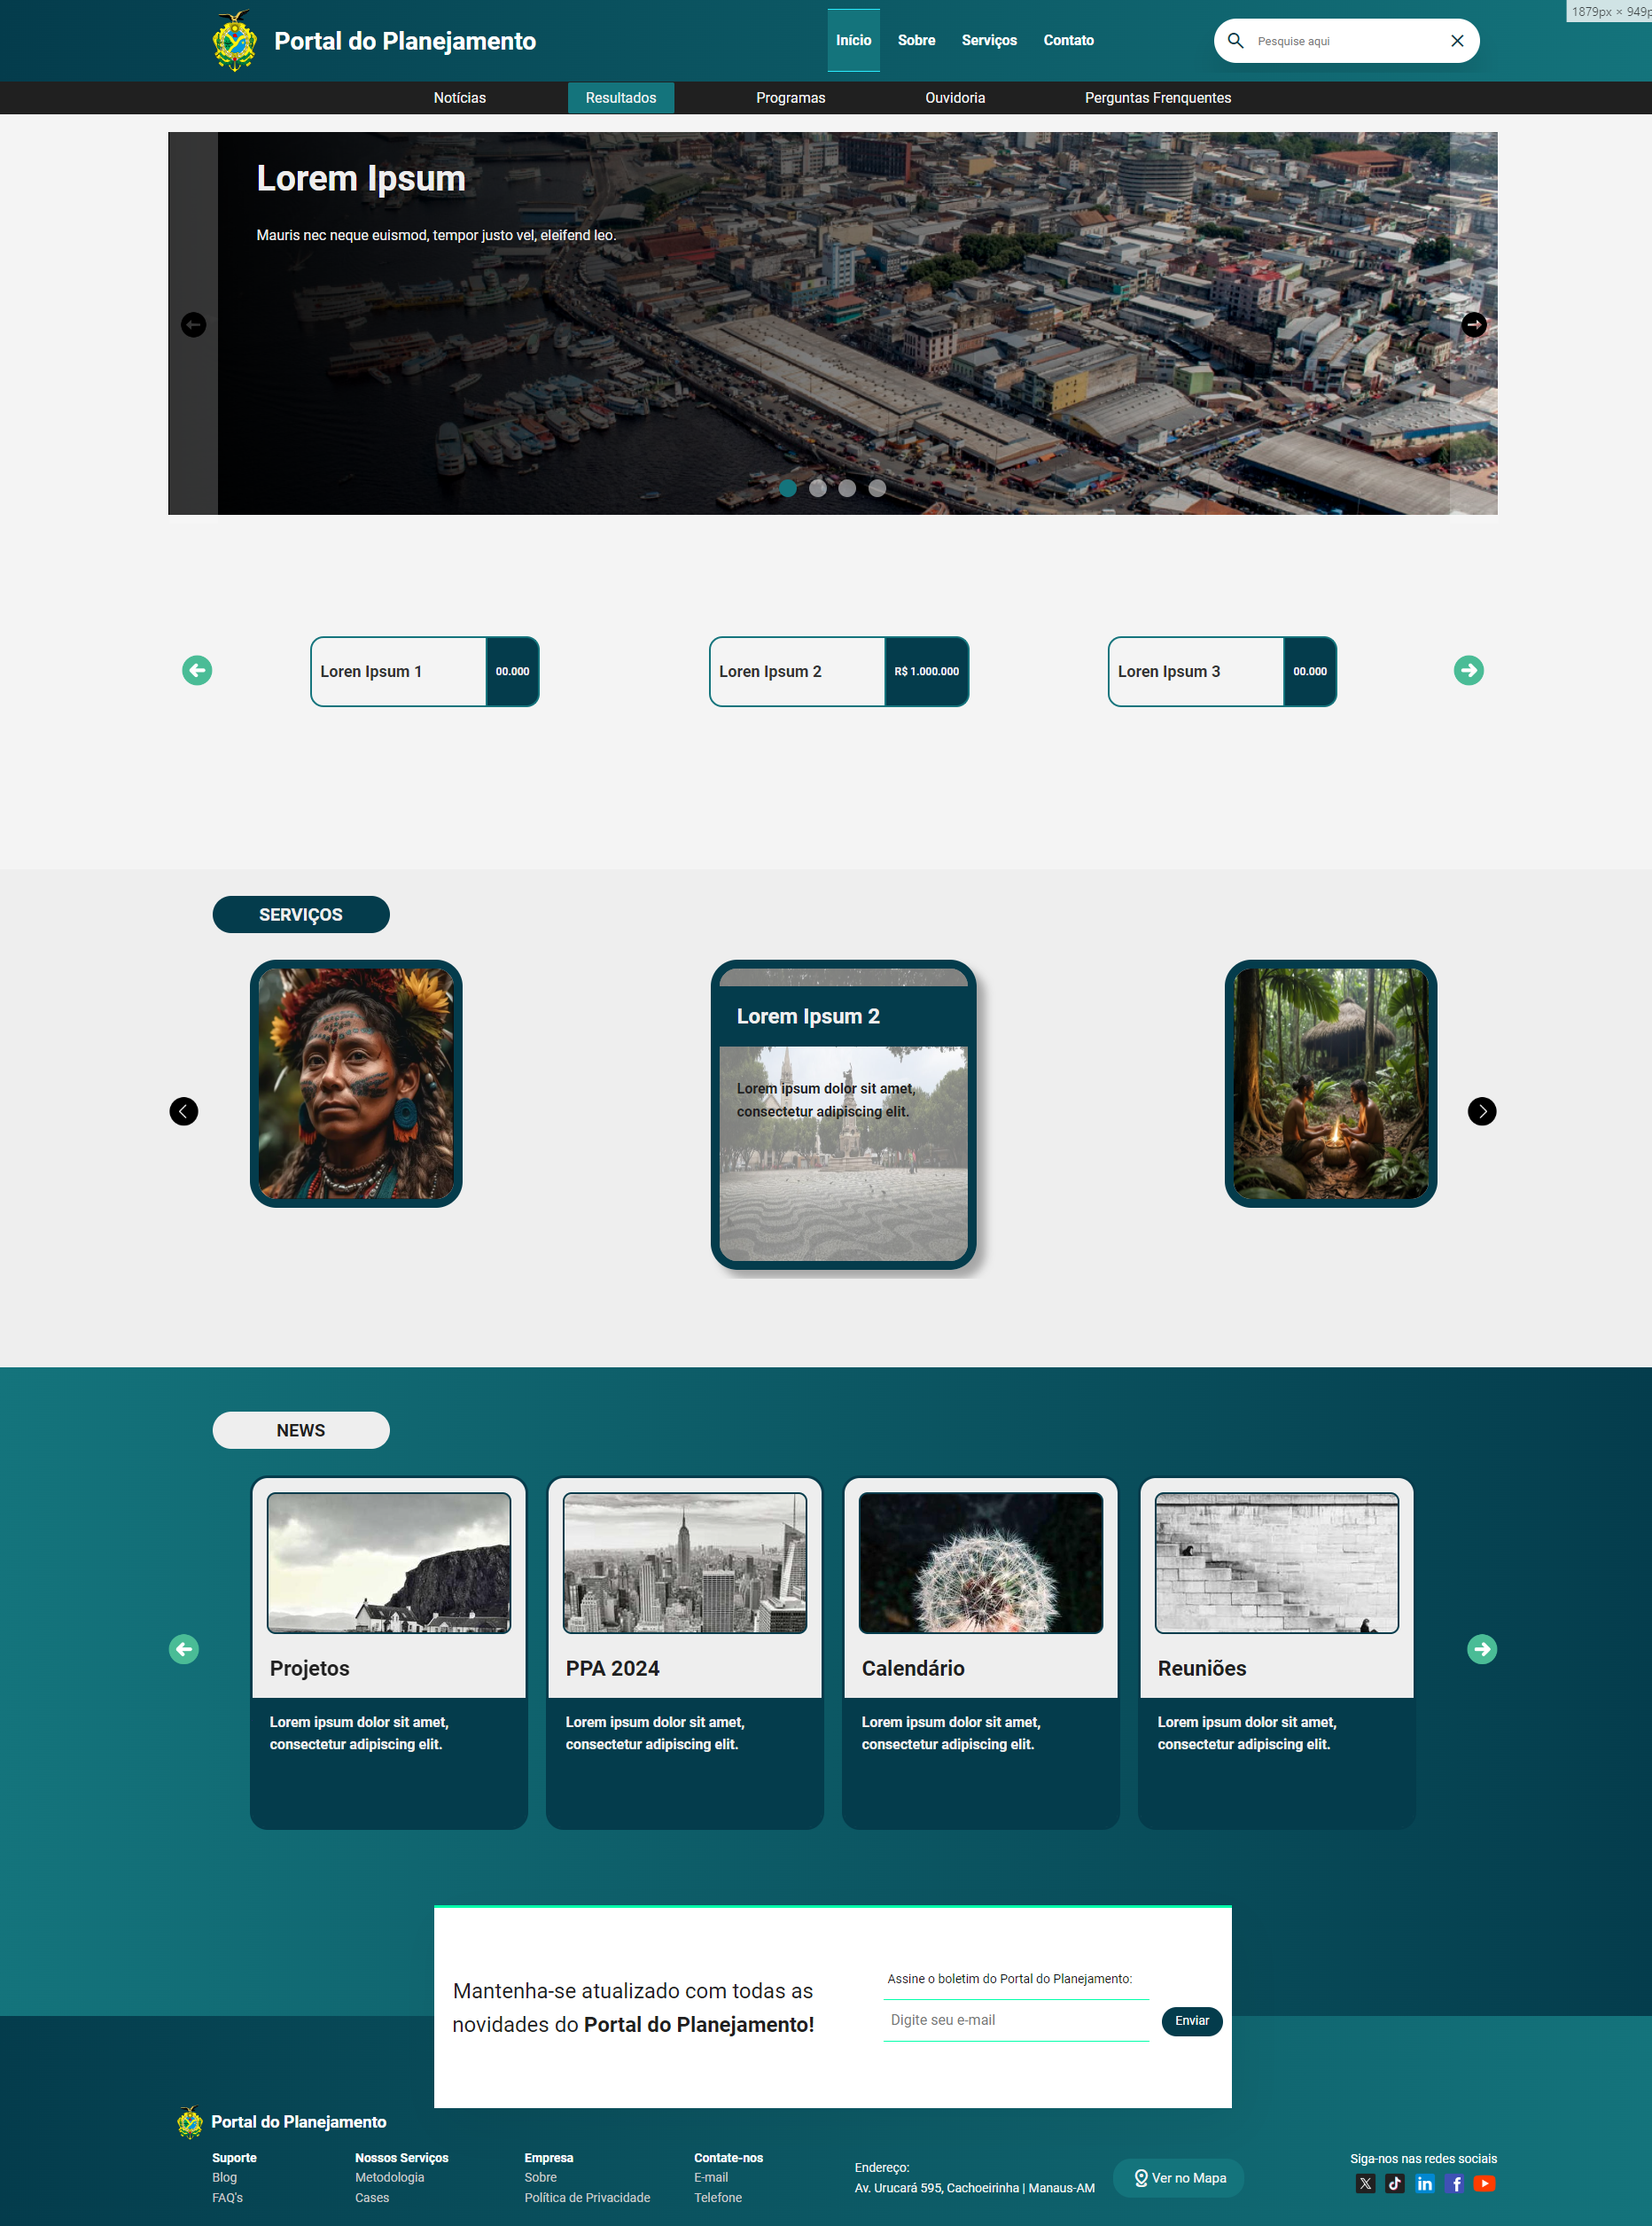
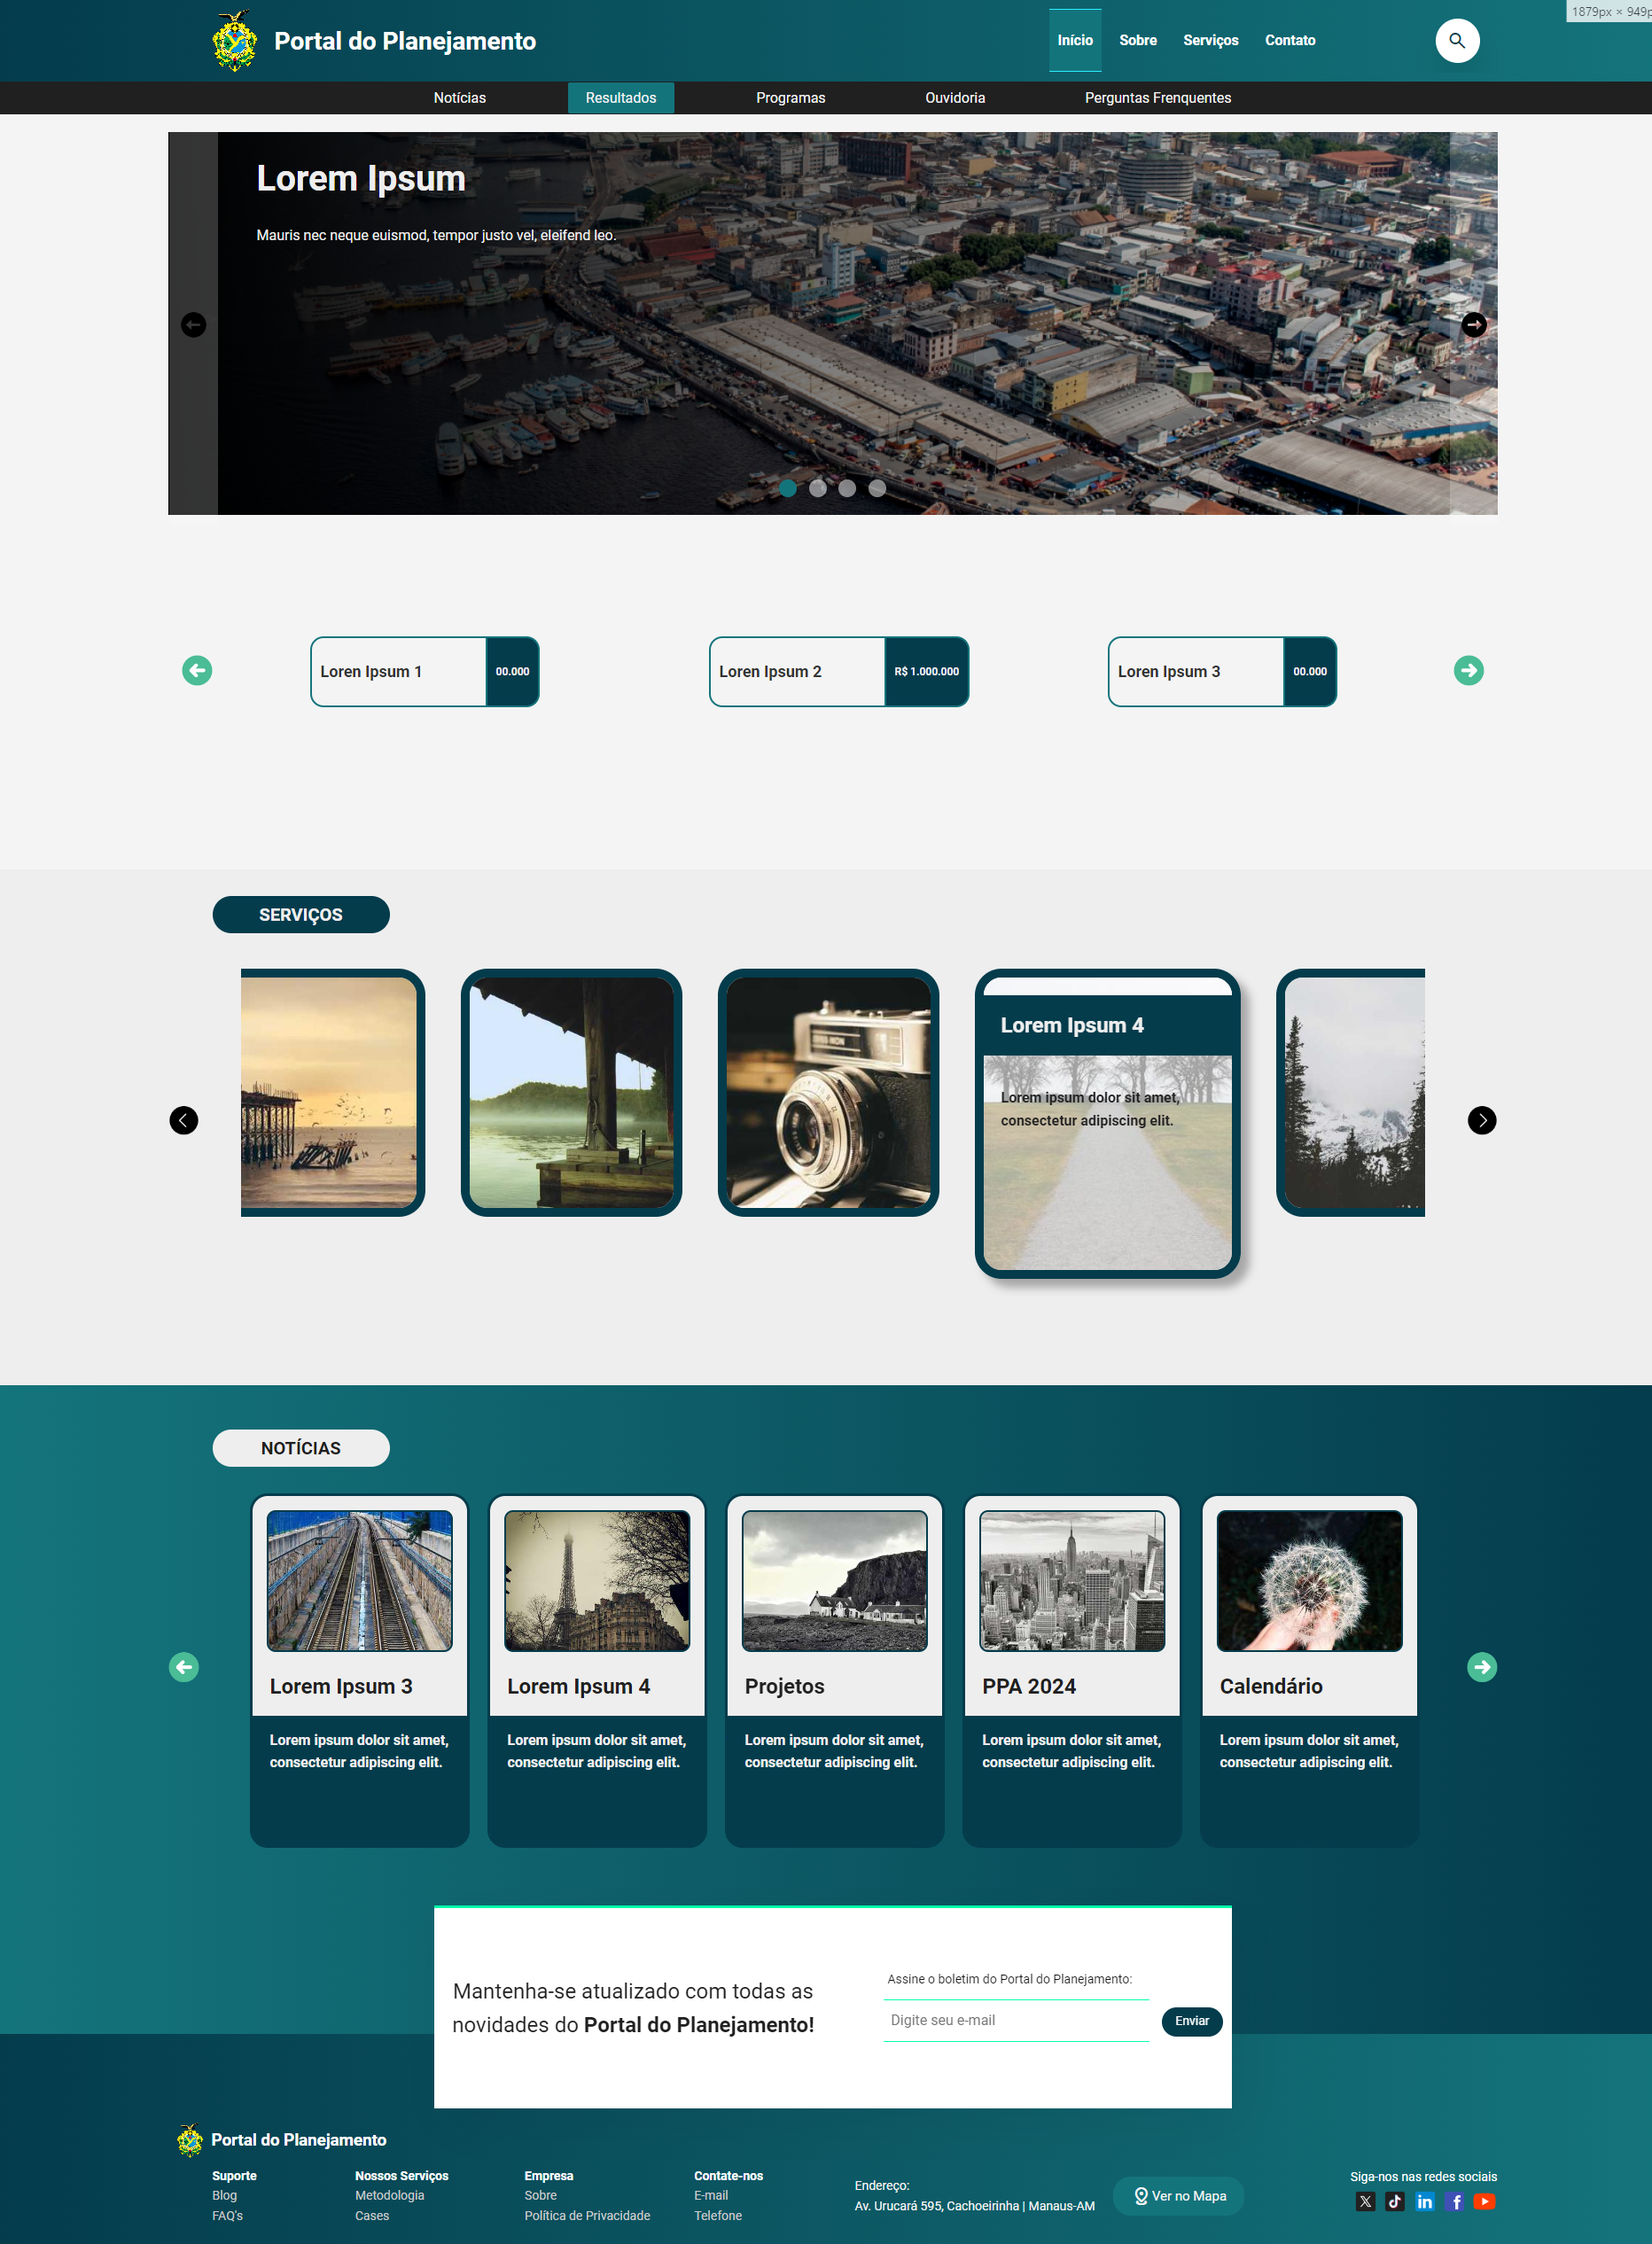
Ultimas alterações nos slides para melhor visualização.

diff --git a/index.html b/index.html
@@ -194,37 +194,37 @@
 
             <div class="center">
                 <div class="carousel-container">
-                    <div class="carousel-track">
+                    <div class="carousel-track slick-carousel">
                         <div class="card-img">
-                            <img src="images/indigena.png" alt="">
+                            <img src="https://picsum.photos/id/270/300/360" alt="">
                             <div class="card-texto">
                                 <h2>Lorem Ipsum 1</h2>
                                 <p>Lorem ipsum dolor sit amet, consectetur adipiscing elit.</p>
                             </div>
                         </div>
                         <div class="card-img">
-                            <img src="images/largo.jpeg" alt="">
+                            <img src="https://picsum.photos/id/230/300/360" alt="">
                             <div class="card-texto">
                                 <h2>Lorem Ipsum 2</h2>
                                 <p>Lorem ipsum dolor sit amet, consectetur adipiscing elit.</p>
                             </div>
                         </div>
                         <div class="card-img">
-                            <img src="images/imagem-1.png" alt="">
+                            <img src="https://picsum.photos/id/250/300/360" alt="">
                             <div class="card-texto">
                                 <h2>Lorem Ipsum 3</h2>
                                 <p>Lorem ipsum dolor sit amet, consectetur adipiscing elit.</p>
                             </div>
                         </div>
                         <div class="card-img">
-                            <img src="images/imagem-2.png" alt="">
+                            <img src="https://picsum.photos/id/255/300/360" alt="">
                             <div class="card-texto">
                                 <h2>Lorem Ipsum 4</h2>
                                 <p>Lorem ipsum dolor sit amet, consectetur adipiscing elit.</p>
                             </div>
                         </div>
                         <div class="card-img">
-                            <img src="images/rio.png" alt="">
+                            <img src="https://picsum.photos/id/260/300/360" alt="">
                             <div class="card-texto">
                                 <h2>Lorem Ipsum 5</h2>
                                 <p>Lorem ipsum dolor sit amet, consectetur adipiscing elit.</p>
@@ -243,7 +243,7 @@
 
         <section class="news">
             <div class="w100 center">
-                <h1>NEWS</h1>
+                <h1>NOTÍCIAS</h1>
             </div>
             <div class="w100 center">
                 <div class="container-news">
@@ -266,7 +266,7 @@
                             <p>Lorem ipsum dolor sit amet, consectetur adipiscing elit.</p>
                         </div>
                         <div class="card-news">
-                            <div class="news-image" style="background-image: url(https://picsum.photos/id/240/500/500);"></div>
+                            <div class="news-image" style="background-image: url(https://picsum.photos/id/201/500/500);"></div>
                             <h2>Reuniões</h2>
                             <p>Lorem ipsum dolor sit amet, consectetur adipiscing elit.</p>
                         </div>
@@ -385,10 +385,41 @@
 <script>
     $(document).ready(function(){
         $('.carousel-news').slick({
-            slidesToShow: 4,
+            slidesToShow: 5,
             slidesToScroll: 1,
+            infinite: true,
+            autoplay: true,
+            autoplaySpeed: 2000,
             prevArrow: $('.card-news-prev'),
             nextArrow: $('.card-news-next'),
+            responsive: [
+                {
+                    breakpoint: 768,
+                    settings: {
+                        slidesToShow: 2,
+                        slidesToScroll: 1
+                    }
+                },
+                {
+                    breakpoint: 480,
+                    settings: {
+                        slidesToShow: 1,
+                        slidesToScroll: 1
+                    }
+                }
+            ]
+        });
+    });
+
+    $(document).ready(function(){
+        $('.carousel-track').slick({
+            slidesToShow: 4,
+            slidesToScroll: 1,
+            prevArrow: $('.card-img-prev'),
+            nextArrow: $('.card-img-next'),
+            infinite: true,
+            autoplay: true,
+            autoplaySpeed: 4000,
             responsive: [
                 {
                     breakpoint: 768,

diff --git a/script.js b/script.js
@@ -124,43 +124,3 @@ document.addEventListener('DOMContentLoaded', function() {
     updateSlides();
 
 });
-
-document.addEventListener('DOMContentLoaded', function() {
-    const track = document.querySelector('.carousel-track');
-    const slides = Array.from(track.children);
-    const prevButton = document.querySelector('.card-img-prev');
-    const nextButton = document.querySelector('.card-img-next');
-    const slideWidth = slides[0].getBoundingClientRect().width + 20; // Adicione a margem de 10px em cada lado
-    const totalSlides = slides.length;
-    let currentIndex = 0;
-
-    // Arrange the slides next to one another
-    const setSlidePosition = (slide, index) => {
-        slide.style.left = slideWidth * index + 'px';
-    };
-    slides.forEach(setSlidePosition);
-
-    const moveToSlide = (track, currentSlide, targetSlide) => {
-        track.style.transform = 'translateX(-' + targetSlide.style.left + ')';
-        currentSlide.classList.remove('current-slide');
-        targetSlide.classList.add('current-slide');
-    };
-
-    function updateSlides() {
-        track.style.transform = `translateX(-${currentIndex * slideWidth}px)`;
-    }
-
-    prevButton.addEventListener('click', function() {
-        currentIndex = (currentIndex === 0) ? totalSlides - 1 : currentIndex - 3;
-        updateSlides();
-    });
-
-    nextButton.addEventListener('click', function() {
-        currentIndex = (currentIndex >= totalSlides - 1) ? 0 : currentIndex + 3;
-        updateSlides();
-    });
-
-    // Set the initial current slide
-    slides[0].classList.add('current-slide');
-    updateSlides();
-});

diff --git a/styles.css b/styles.css
@@ -532,21 +532,23 @@ section.servicos{
 
 .card-img {
     flex: 0 0 auto;
-    width: 240px;
-    height: 280px;
+    max-width: 250px ;
+    max-height: 280px ;
     overflow: hidden;
     border-radius: 30px;
     border: #043c4c 10px solid;
     transition: width 0.3s, height 0.3s, box-shadow 0.3s;
     position: relative;
-    margin: 10px; /* Ajuste a margem conforme necessário */
+    margin: 20px; /* Ajuste a margem conforme necessário */
+
 }
 
 .card-img:hover {
-    width: 300px;
-    height: 350px;
+    min-width: 300px ;
+    min-height: 350px;
     box-shadow: 10px 10px 10px rgba(0, 0, 0, 0.3);
 }
+
 
 .card-img img {
     display: block;
@@ -563,7 +565,7 @@ section.servicos{
     height: 100%;
     opacity: 0;
     transition: opacity 0.3s ease;
-    box-sizing: border-box;
+    /* box-sizing: border-box; */
     text-align: start;
     background-color: rgba(255, 255, 255, 0.5);
 }
